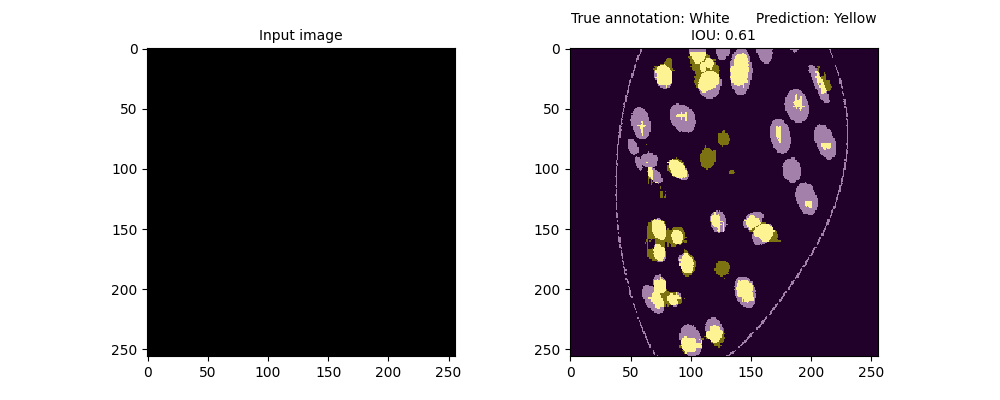
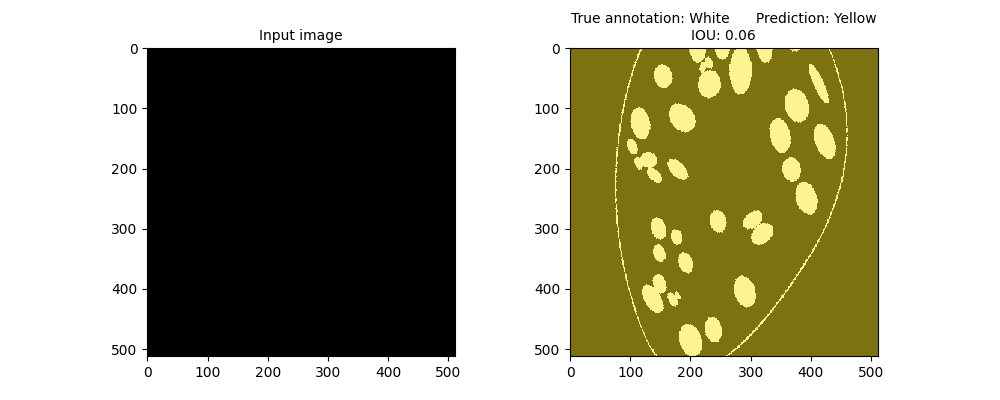
Augmentation inside vagusdataloader (buggy)

diff --git a/src/run.py b/src/run.py
@@ -1,17 +1,12 @@
-import os
-
-from keras_preprocessing.image import ImageDataGenerator
+import numpy as np
 from tensorflow import keras
 
-from config import img_size, num_classes, batch_size, epochs, seed, steps_per_epoch, validation_steps, val_samples, initialise_run
+from augmentation import get_image_annotation_generators
+from config import img_size, num_classes, batch_size, epochs, steps_per_epoch, validation_steps, val_samples, initialise_run
 from data_loader import VagusDataLoader
 from data_utils import input_target_path_pairs
+from eval import model_iou, one_prediction_iou
 from model import get_model
-from augmentation import get_image_annotation_generators
-from eval import model_iou
-from visualisation import visualise_one_prediction
-
-import numpy as np
 
 
 def train(train_data, val_data, save_location):
@@ -62,15 +57,14 @@ def run_train_without_augmentation(dataset_folder, model_save_file='model_checkp
     print('Training complete')
     return trained_model
 
-def run_train_with_augmentation():
 
+def run_train_with_augmentation():
     train_x, train_y = get_image_annotation_generators(subset='training')
     val_x, val_y = get_image_annotation_generators(subset='validation')
     train_gen = zip(train_x, train_y)
     val_gen = zip(val_x, val_y)
 
     train(train_gen, val_gen, save_location='model_checkpoints/model_checkpoint7.h5')
-
 
     # x = train_x.next()
     # y = train_y.next()
@@ -80,7 +74,6 @@ def run_train_with_augmentation():
     # plt.imshow(x[0, :, :, :])
     # plt.show()
 
-    
 
 def output_predictions(trained_model=None, trained_model_checkpoint=None):
     if trained_model is None and trained_model_checkpoint is None:
@@ -91,9 +84,10 @@ def output_predictions(trained_model=None, trained_model_checkpoint=None):
 
     print('Generating predictions')
 
-    val_imgs, val_annos = get_image_annotation_generators(subset='validation')
+    one_prediction_iou(trained_model, test_img=np.load('data/vagus_dataset_7/images/1.npy'), test_anno=np.load('data/vagus_dataset_7/annotations/1.npy'))
 
-    model_iou(trained_model, val_imgs, val_annos)
+    # val_imgs, val_annos = get_image_annotation_generators(subset='validation', image_directory='data/vagus_dataset_6/images', annotation_directory='data/vagus_dataset_6/annotations')
+    # model_iou(trained_model, val_imgs, val_annos)
 
     # test_im = cv2.imread(val_input_img_paths[0])
 
@@ -112,8 +106,8 @@ def output_predictions(trained_model=None, trained_model_checkpoint=None):
 
 if __name__ == '__main__':
     initialise_run()
-    model_save_file = 'model_checkpoints/model_checkpoint7.h5'
-    # m = run_train_without_augmentation(dataset_folder='data/vagus_dataset_5/train', model_save_file=model_save_file)
+    model_save_file = 'model_checkpoints/model_checkpoint9.h5'
+    # m = run_train_without_augmentation(dataset_folder='data/vagus_dataset_7', model_save_file=model_save_file)
     output_predictions(trained_model_checkpoint=model_save_file)
     # run_train_with_augmentation()
     print('Done')

diff --git a/src/data_loader.py b/src/data_loader.py
@@ -7,6 +7,8 @@ from config import debug
 
 from augmentation import get_random_affine_transformation
 
+import matplotlib.pyplot as plt
+
 
 class VagusDataLoader(keras.utils.Sequence):
     """Helper to iterate over the data (as Numpy arrays)."""
@@ -29,28 +31,17 @@ class VagusDataLoader(keras.utils.Sequence):
         y = np.zeros((self.batch_size,) + self.img_size + (1,), dtype="uint8")
 
         for j, (img_path, target_path) in enumerate(zip(batch_input_img_paths, batch_target_img_paths)):
-            img = load_img(img_path, target_size=self.img_size)
+            img = np.load(img_path)
             annotation = np.load(target_path)
+            annotation = np.expand_dims(annotation, axis=2)
             current_transform = get_random_affine_transformation()
             augmented_img = current_transform(img)
             augmented_annotation = current_transform(annotation)
+            augmented_annotation = cv2.threshold(augmented_annotation, 0.5, 1, cv2.THRESH_BINARY)[1]
+            augmented_annotation = np.expand_dims(augmented_annotation, axis=2)
             x[j] = augmented_img
             y[j] = augmented_annotation
-
-        # for j, path in enumerate(batch_target_img_paths):
-        #     img = load_img(path, target_size=self.img_size, color_mode="grayscale")
-        #     y[j] = np.expand_dims(img, 2)
-        #     # Ground truth labels are 1, 2, 3. Subtract one to make them 0, 1, 2:
-        #     # TODO what?
-        #     # y[j] -= 1
-        #     annotation = y[j]
-        #     threshold = 127
-        #     _, annotation = cv2.threshold(annotation, threshold, 255, cv2.THRESH_BINARY)
-        #     annotation = annotation.astype(float) / 255
-        #     annotation = np.expand_dims(annotation, axis=2)
-        #     y[j] = 1 - annotation
-
-        if i == 0 and debug:
-            print(f'Data loader first x, y pair - x shape: {x.shape}, x min max: {np.min(x)}, {np.max(x)}, y shape: {y.shape}, y values: {np.unique(y, return_counts=True)}')
+        # if i == 0 and debug:
+        #     print(f'Data loader first x, y pair - x shape: {x.shape}, x min max: {np.min(x)}, {np.max(x)}, y shape: {y.shape}, y values: {np.unique(y, return_counts=True)}')
 
         return x, y

diff --git a/src/eval.py b/src/eval.py
@@ -2,13 +2,36 @@ import numpy as np
 from tensorflow import keras
 
 from config import num_classes, batch_size
-from visualisation import show_original_image, show_original_annotation, show_predicted_annotation, show_combined_result, show_overlay_result
+from visualisation import show_overlay_result, show_result_test
 
 
 def get_model_prediction(trained_model, input_image):
     prediction = trained_model.predict(input_image)
     prediction = np.argmax(prediction, axis=-1)
     return prediction
+
+
+def one_prediction_iou(trained_model, test_img, test_anno, show_images=True):
+    metric = keras.metrics.MeanIoU(num_classes=num_classes)
+
+    x = np.expand_dims(test_img, axis=0)
+    y_true = test_anno
+    y_pred = get_model_prediction(trained_model, x)
+
+    metric.update_state(y_pred, y_true)
+
+    iou_score = np.round(metric.result().numpy(), decimals=2)
+
+    if show_images:
+        for i in range(batch_size):
+            # show_combined_result(model_input=x, y_true=y_true, y_pred=y_pred, i=i, iou_score=iou_score, save_file='results/combined1.png')
+            # show_overlay_result(model_input=x, y_true=y_true, y_pred=y_pred, i=i, iou_score=iou_score, save_file='results/overlay2.png')
+            show_result_test(x[0, :, :, :], y_pred[0, :, :])
+            # show_original_image(x, i=i)
+            # show_original_annotation(y_true, i=i)
+            # show_predicted_annotation(y_pred, i=i)
+
+    return iou_score
 
 
 def model_iou(trained_model, test_img_generator, test_anno_generator, show_images=True):
@@ -31,4 +54,3 @@ def model_iou(trained_model, test_img_generator, test_anno_generator, show_image
             # show_predicted_annotation(y_pred, i=i)
 
     return iou_score
-

diff --git a/src/data_utils.py b/src/data_utils.py
@@ -1,11 +1,8 @@
 import os
 
 import cv2
-import matplotlib.pyplot as plt
 import numpy as np
-from PIL import ImageOps
 from pdf2image import convert_from_path
-from tensorflow import keras
 
 
 def dataset_convert(input_folder, output_folder):
@@ -82,6 +79,7 @@ def image_preprocessor(image):
     assert np.max(image) <= 1 and np.min(image) >= 0
     return image
 
+
 # def convert_annotation_test(im):
 #     print(im.shape)
 #     im = cv2.cvtColor(im, cv2.COLOR_BGR2GRAY)
@@ -106,11 +104,6 @@ def image_preprocessor(image):
 #     print(np.unique(im))
 
 
-
-
-
-
-
 def input_target_path_pairs(directory, print_examples=48):
     """ Create image target pairs """
     input_dir = os.path.join(os.getcwd(), directory, 'images')
@@ -122,7 +115,7 @@ def input_target_path_pairs(directory, print_examples=48):
     for directory, paths in [(input_dir, input_img_paths), (target_dir, target_img_paths)]:
         for fname in os.listdir(directory):
             fpath = os.path.join(directory, fname)
-            if fname.endswith('.jpg') or fname.endswith('.bmp'):
+            if fname.endswith('.npy'):
                 paths.append(fpath)
             else:
                 raise ValueError(f'Invalid file format {fpath}.')

diff --git a/notebooks/umer_tests.py b/notebooks/umer_tests.py
@@ -1,8 +1,8 @@
 import os
-import numpy as np
-from tensorflow.keras.preprocessing.image import load_img
+
 import cv2
 import matplotlib.pyplot as plt
+
 
 def show_images():
     im = cv2.imread('data/train/images/sample/vago DX - 27.06.18 - HH - vetrino 1 - prox - campione 0002.jpg')
@@ -20,9 +20,15 @@ def show_images():
     # print(im.shape)
 
 
-if __name__ == '__main__':
+def rename():
+    folder = 'data/vagus_dataset_6/annotations'
+    for fname in os.listdir(folder):
+        os.rename(os.path.join(folder, fname), os.path.join(folder, 'img_' + fname.split('_')[1]))
 
+
+if __name__ == '__main__':
     os.chdir('/home/albion/code/EPFL/ml/nerve-segmentation')
-    pet_mask = load_img('../oxf-pets/annotations/trimaps/Abyssinian_1.png')
-    vagus_mask = load_img('data/vagus_dataset_2/annotations/Vago dx 21.02.19 DISTALE con elettrodo - vetrino 1 - fetta 0005.jpg')
+    # pet_mask = load_img('../oxf-pets/annotations/trimaps/Abyssinian_1.png')
+    # vagus_mask = load_img('data/vagus_dataset_2/annotations/Vago dx 21.02.19 DISTALE con elettrodo - vetrino 1 - fetta 0005.jpg')
+    # rename()
     print('0')

diff --git a/src/augmentation.py b/src/augmentation.py
@@ -1,17 +1,18 @@
 import os
 
 import cv2
-from PIL import ImageOps, Image
+import numpy as np
 from keras_preprocessing.image import ImageDataGenerator, apply_affine_transform
 
 from config import seed, batch_size, img_size, initialise_run
 from data_utils import annotation_preprocessor, image_preprocessor
 
-import numpy as np
 
 def get_random_affine_transformation():
-    transform = lambda img: apply_affine_transform(img,theta=np.random.randint(0, 40))
+    transform = lambda img: img
+    # transform = lambda img: apply_affine_transform(img, theta=np.random.randint(0, 40), fill_mode='constant', cval=1)
     return transform
+
 
 def get_image_annotation_generators(subset='validation', image_directory='data/train/images', annotation_directory='data/train/annotations', validation_split=0.2):
     data_gen_arcs = dict(

diff --git a/src/visualisation.py b/src/visualisation.py
@@ -4,6 +4,7 @@ import cv2
 import matplotlib.pyplot as plt
 import numpy as np
 from PIL import ImageOps, Image
+from skimage import color
 from tensorflow import keras
 
 from post_processing import identify_fasicle_regions
@@ -96,6 +97,17 @@ def show_overlay_result(model_input, y_true, y_pred, i=0, iou_score=None, save_f
         plt.savefig(save_file)
 
     plt.show()
+
+
+def show_result_test(image_resized, mask_resized):
+    fig, axs = plt.subplots(1, 3, figsize=(12, 12))
+    axs[0].imshow(image_resized)
+    axs[1].imshow(mask_resized)
+    overlaying_image = color.label2rgb(mask_resized, image_resized, bg_label=0)
+    axs[2].imshow(overlaying_image)
+    plt.show()
+    plt.pause(1)
+
 
 def visualise_one_prediction(model, input_image):
     print('Input image shape: ', input_image.shape)

diff --git a/src/config.py b/src/config.py
@@ -1,10 +1,10 @@
 import os
 
 batch_size = 1
-img_size = (512, 512)
+img_size = (160, 160)
 num_classes = 2  # TODO change num classes to 2
-val_samples = 30
-epochs = 15
+val_samples = 7
+epochs = 5
 
 debug = False
 
@@ -19,5 +19,5 @@ def initialise_run():
     """ Machine specific run initialisation """
     # devices = tf.config.experimental.list_physical_devices('GPU')
     # tf.config.experimental.set_memory_growth(devices[0], True)
-    # os.chdir('/home/albion/code/EPFL/ml/nerve-segmentation')
-    os.chdir('D:/EPFL/ML/projects/nerve-segmentation/')
+    os.chdir('/home/albion/code/EPFL/ml/nerve-segmentation')
+    # os.chdir('D:/EPFL/ML/projects/nerve-segmentation/')
